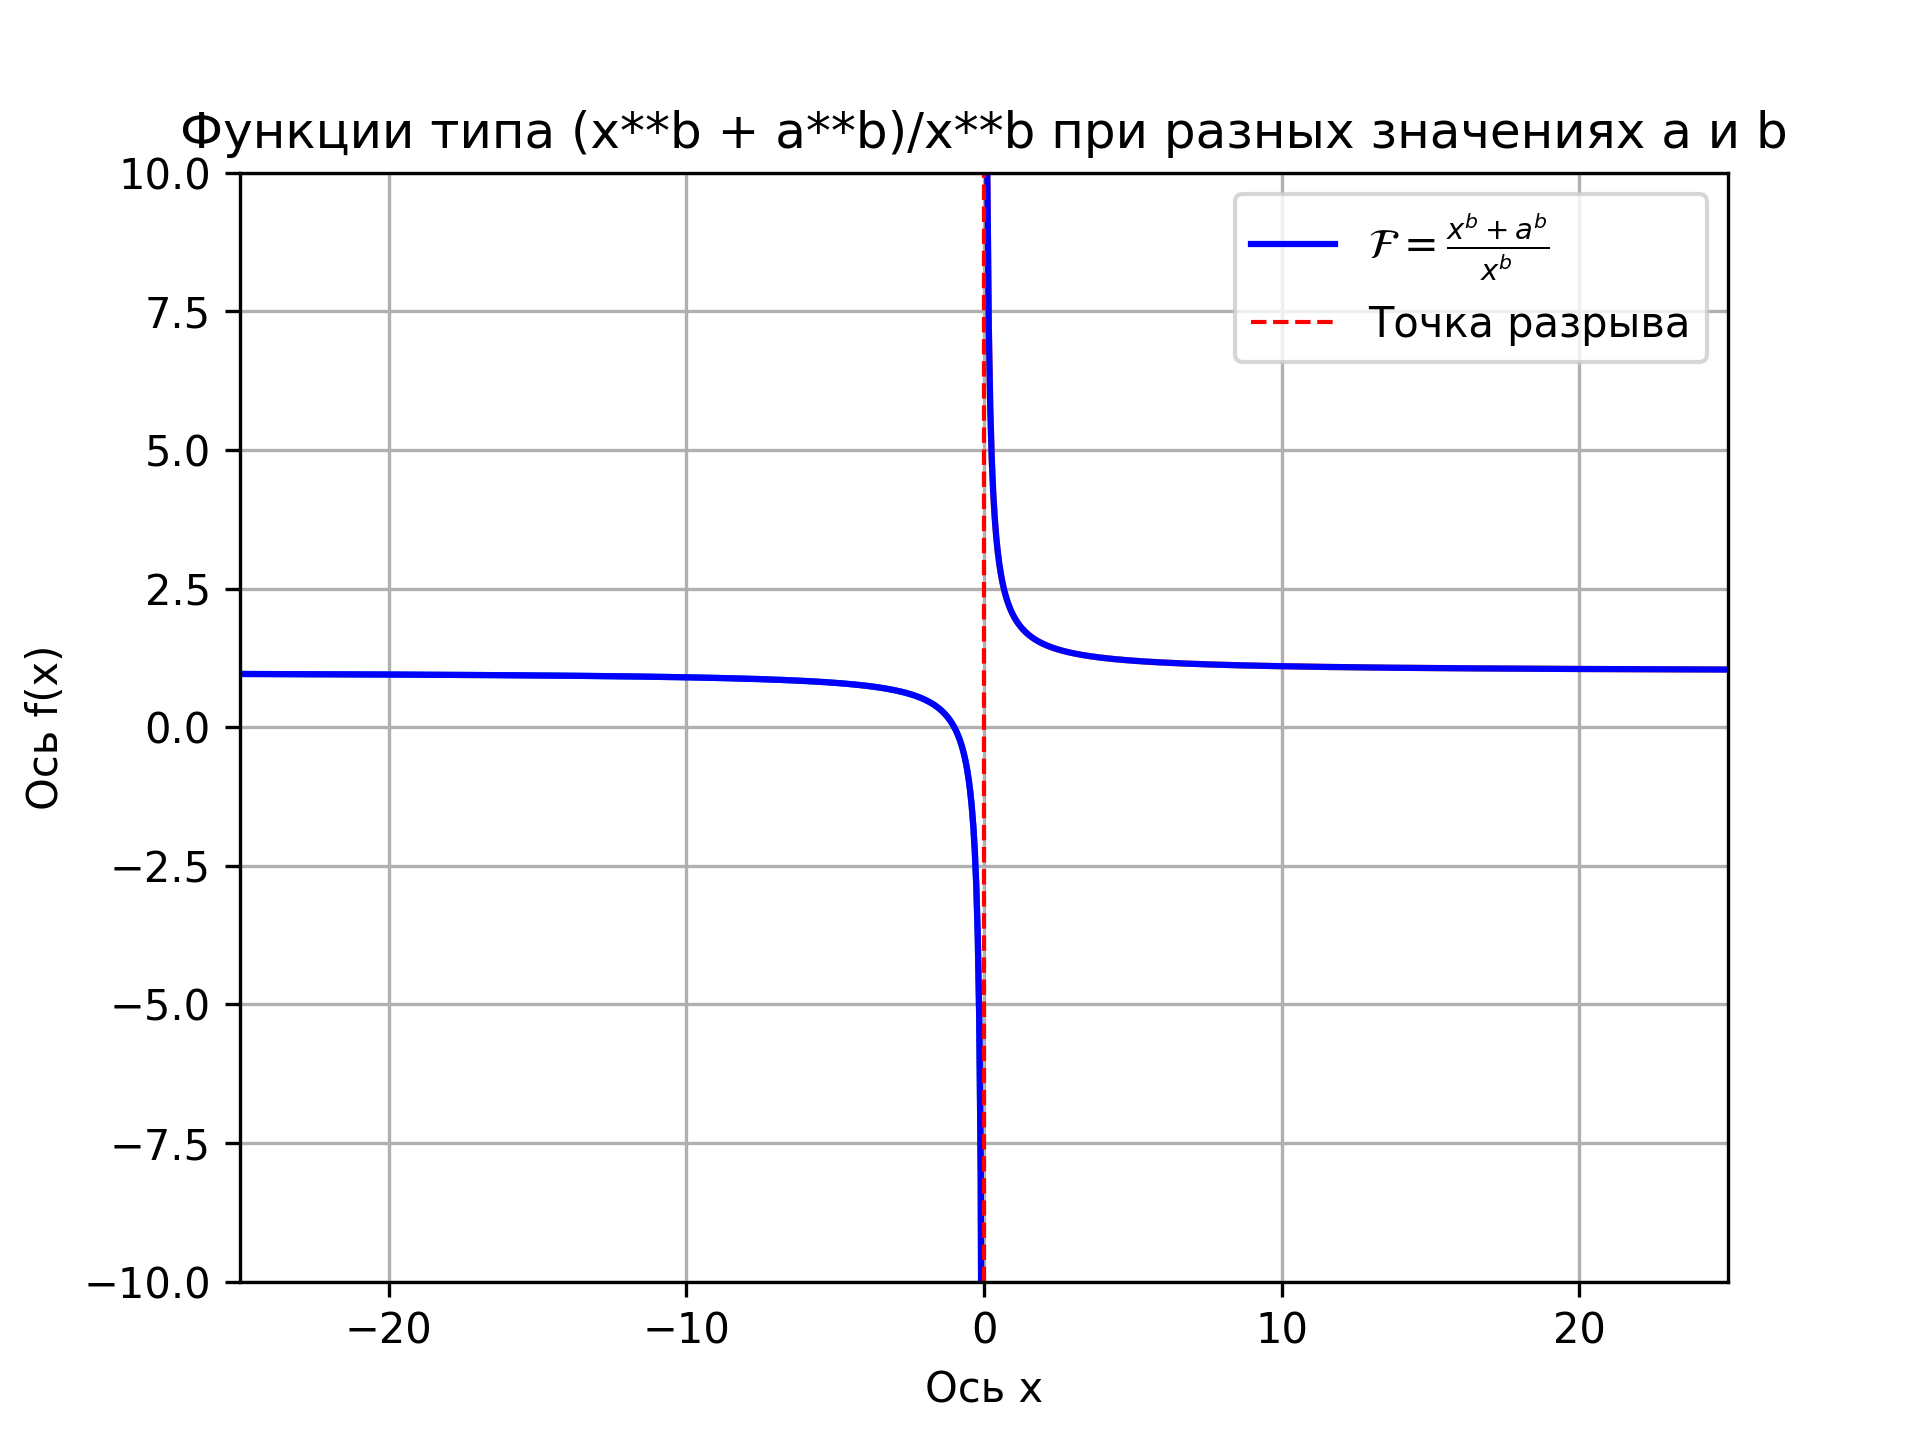
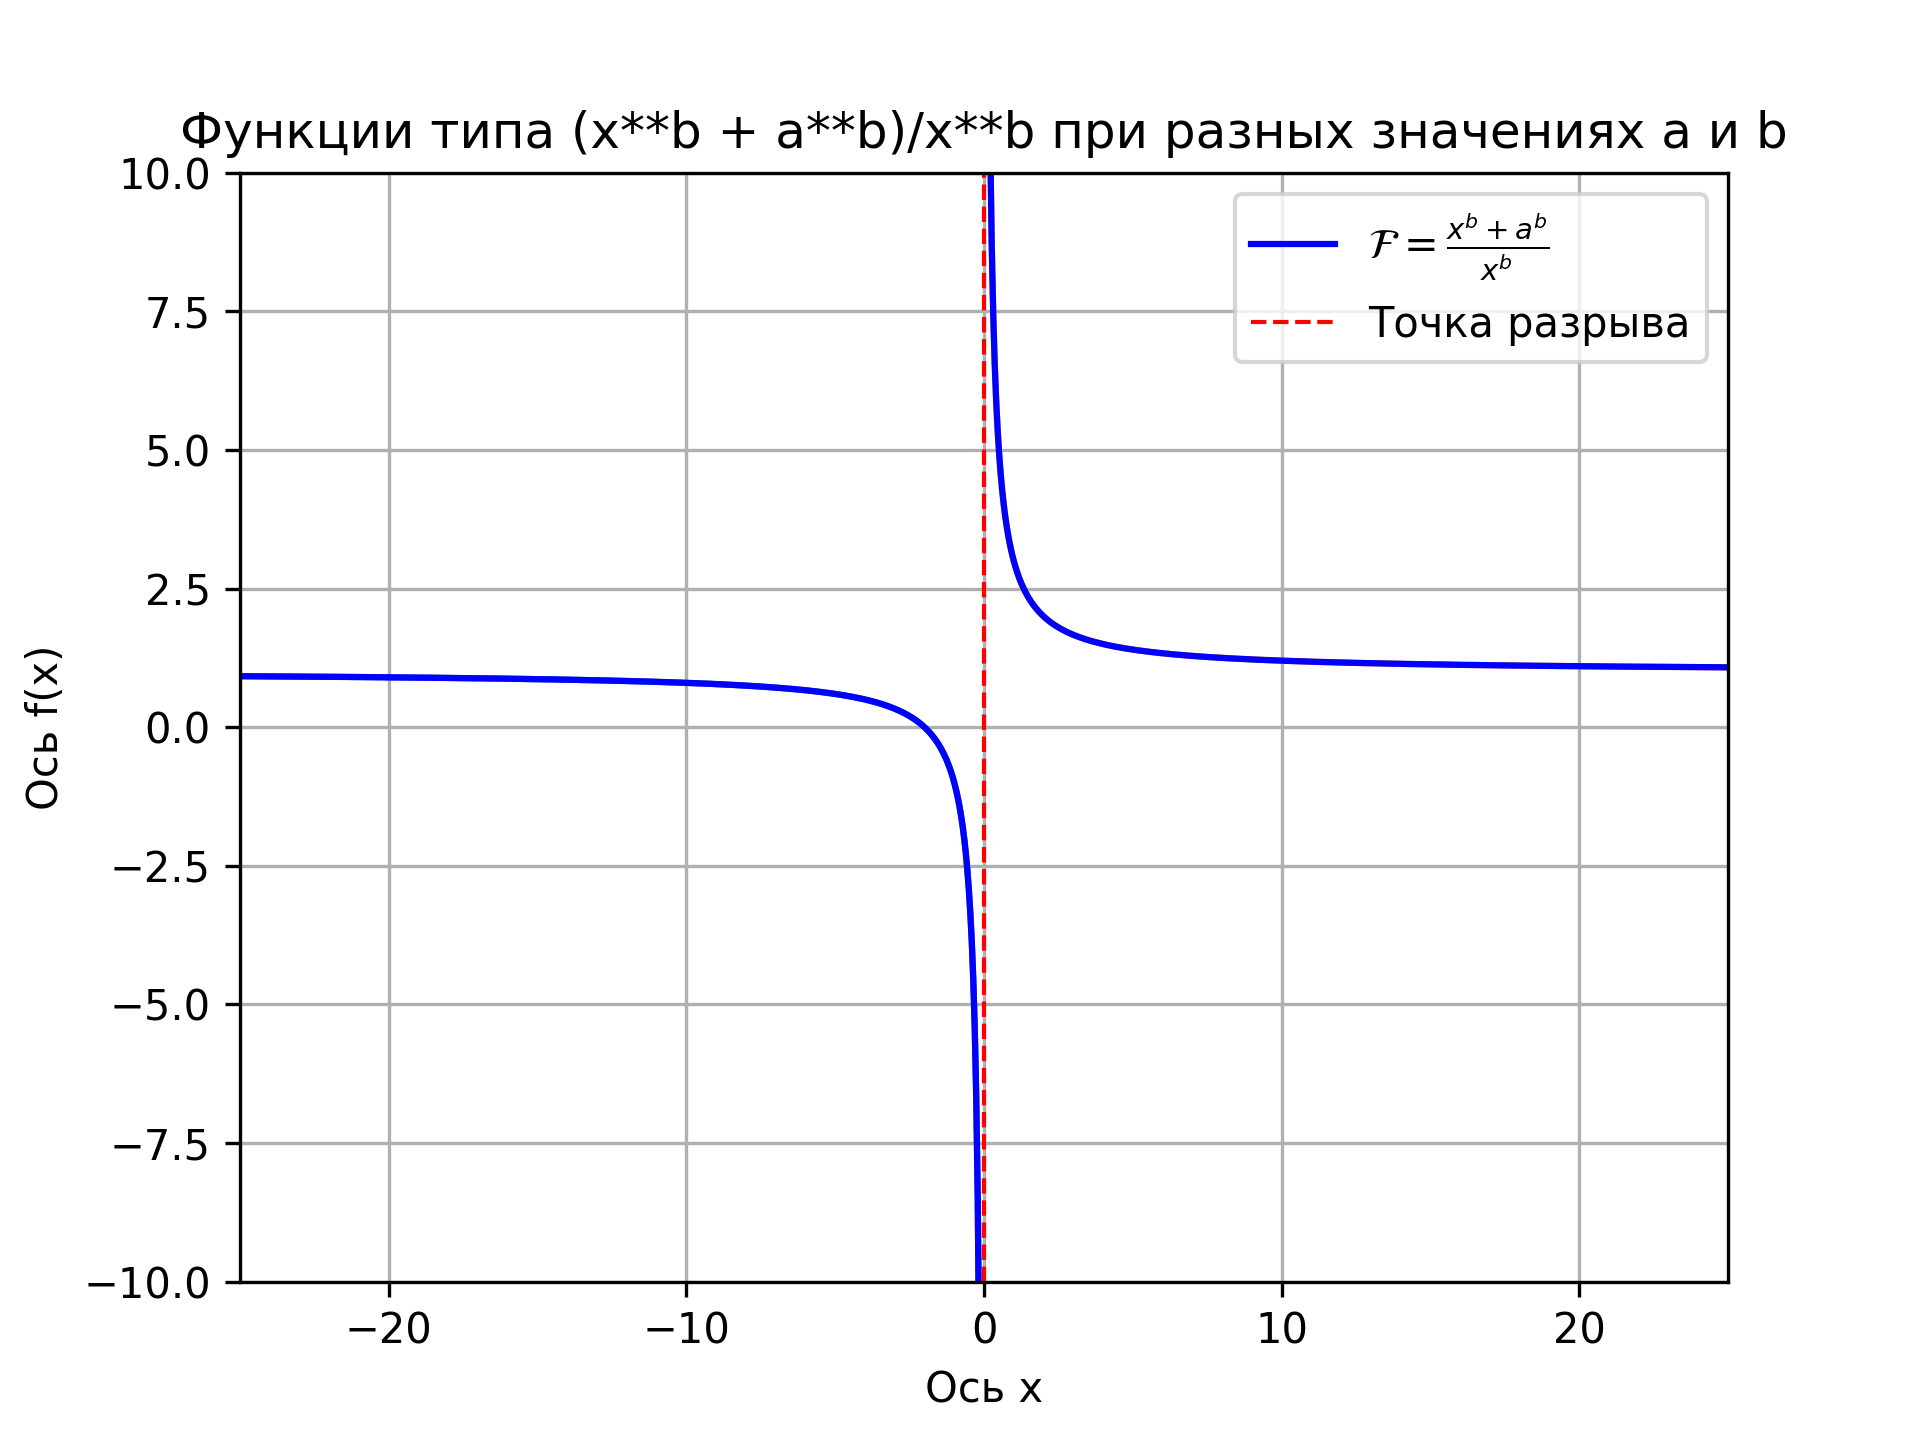
commit

Changed region(s): [[0.5, 0.125, 0.9062, 0.4688], [0.25, 0.4688, 0.5312, 0.8438]]

diff --git a/zadaniya/zadanie9/zadanie9_1/zadanie9_1.py b/zadaniya/zadanie9/zadanie9_1/zadanie9_1.py
@@ -1,0 +1,24 @@
+import numpy as np # вводим mathplotlib
+import os
+from matplotlib import pyplot as plt
+p=0
+x1 = np.linspace(-25, p - 0.01, 500)
+x2 = np.linspace(25, p + 0.01, 500)
+a=1
+b=1
+dir = os.getcwd()
+def f(x):
+    return (x**b + a**b)/x**b
+l1=plt.plot (x1, f(x1))
+l2=plt.plot (x2, f(x2))
+plt.plot (x1, f(x1), color='blue', label=r"$\mathcal{F} = \frac{x^b+a^b}{x^b}$")
+plt.plot (x2, f(x2), color='blue')
+plt.axvline(p, color='red', linestyle='--', label='Точка разрыва', linewidth=1)
+plt.xlabel('Ось х')
+plt.ylabel('Ось f(x)')
+plt.grid(True)
+plt.legend()
+plt.xlim(-25,25)
+plt.ylim(-10,10)
+plt.title('Функции типа (x**b + a**b)/x**b при разных значениях a и b')
+plt.savefig(dir + '/zadanie9', dpi=300)

diff --git a/zadaniya/zadanie9/zadanie9_1/zadanie9_2.py b/zadaniya/zadanie9/zadanie9_1/zadanie9_2.py
@@ -1,0 +1,24 @@
+import numpy as np # вводим mathplotlib
+import os
+from matplotlib import pyplot as plt
+p=0
+x1 = np.linspace(-25, p - 0.01, 500)
+x2 = np.linspace(25, p + 0.01, 500)
+a=2
+b=1
+dir = os.getcwd()
+def f(x):
+    return (x**b + a**b)/x**b
+l1=plt.plot (x1, f(x1))
+l2=plt.plot (x2, f(x2))
+plt.plot (x1, f(x1), color='blue', label=r"$\mathcal{F} = \frac{x^b+a^b}{x^b}$")
+plt.plot (x2, f(x2), color='blue')
+plt.axvline(p, color='red', linestyle='--', label='Точка разрыва', linewidth=1)
+plt.xlabel('Ось х')
+plt.ylabel('Ось f(x)')
+plt.grid(True)
+plt.legend()
+plt.xlim(-25,25)
+plt.ylim(-10,10)
+plt.title('Функции типа (x**b + a**b)/x**b при разных значениях a и b')
+plt.savefig(dir + '/zadanie9', dpi=300)

diff --git a/zadaniya/zadanie9/zadanie9_1/zadanie9_3.py b/zadaniya/zadanie9/zadanie9_1/zadanie9_3.py
@@ -5,7 +5,7 @@ p=0
 x1 = np.linspace(-25, p - 0.01, 500)
 x2 = np.linspace(25, p + 0.01, 500)
 a=1
-b=1
+b=2
 dir = os.getcwd()
 def f(x):
     return (x**b + a**b)/x**b
@@ -22,4 +22,3 @@ plt.xlim(-25,25)
 plt.ylim(-10,10)
 plt.title('Функции типа (x**b + a**b)/x**b при разных значениях a и b')
 plt.savefig(dir + '/zadanie9', dpi=300)
-plt.show()
